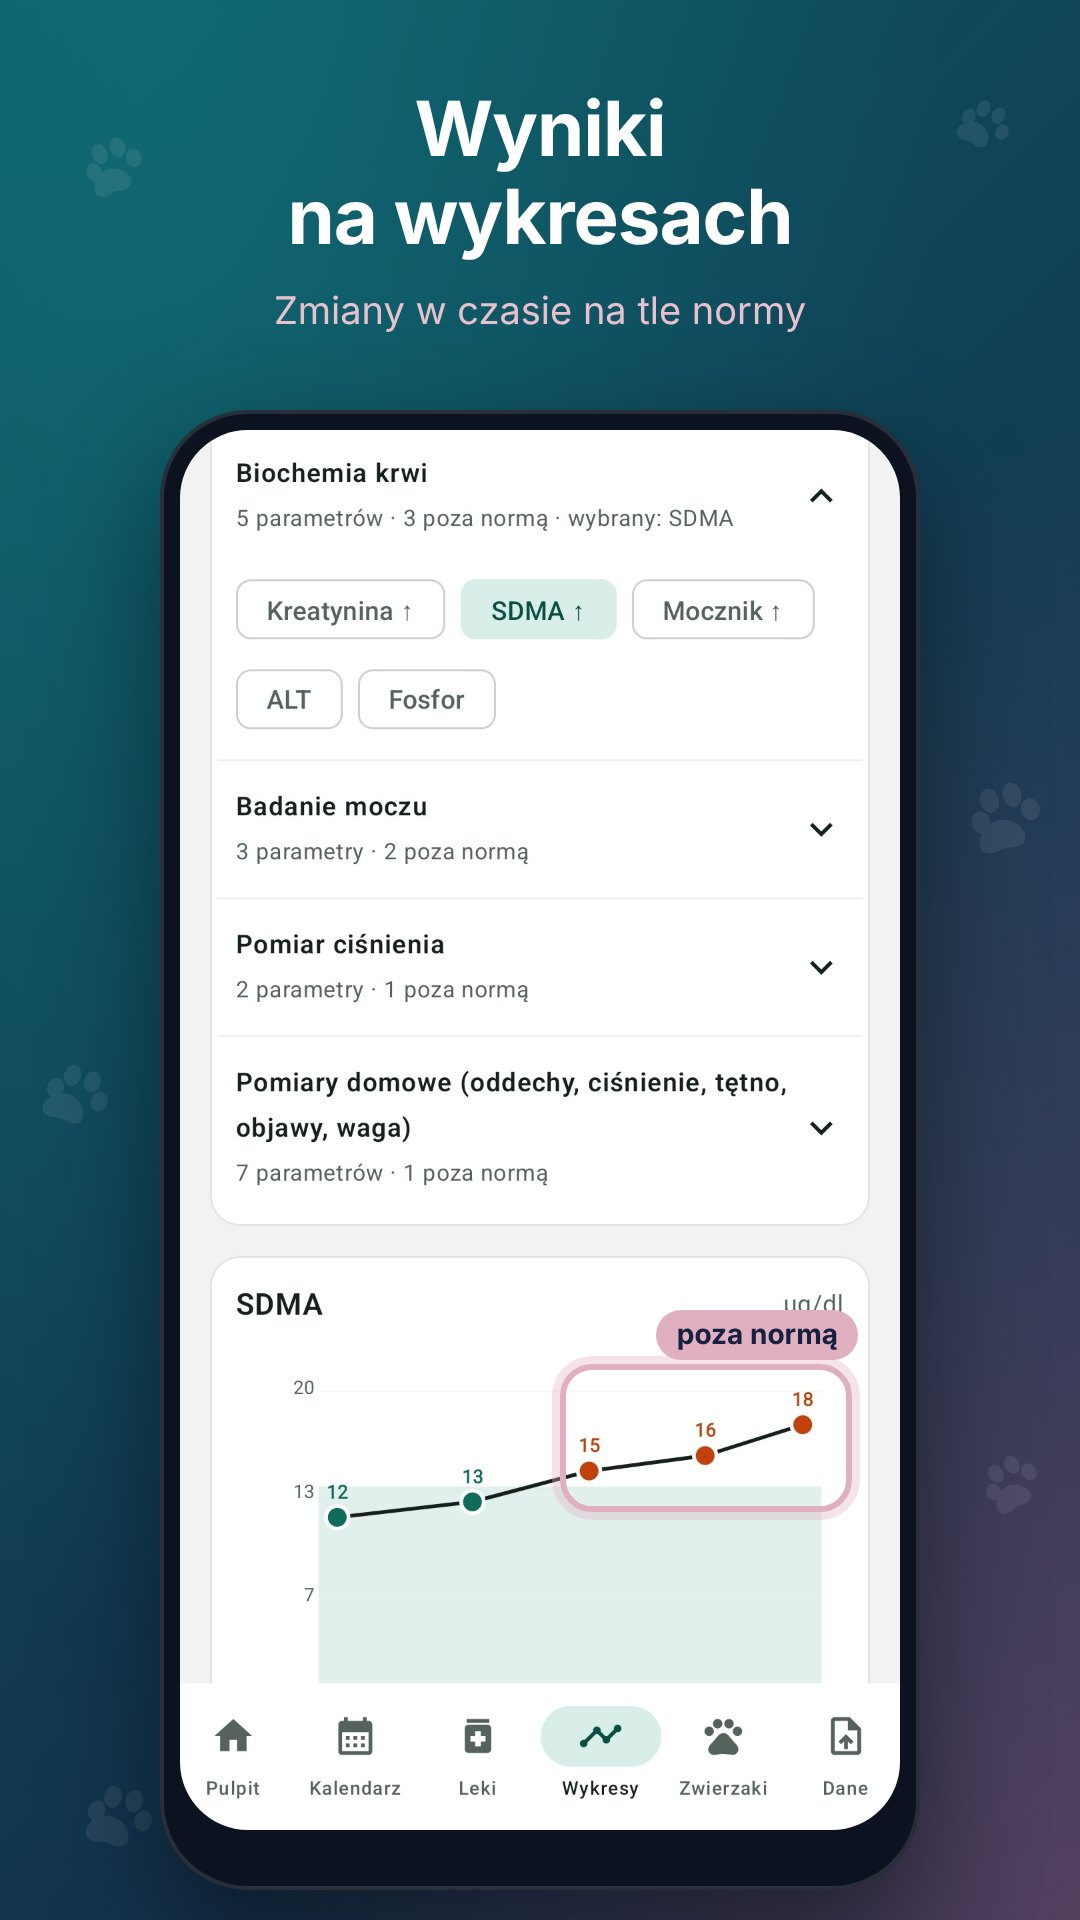
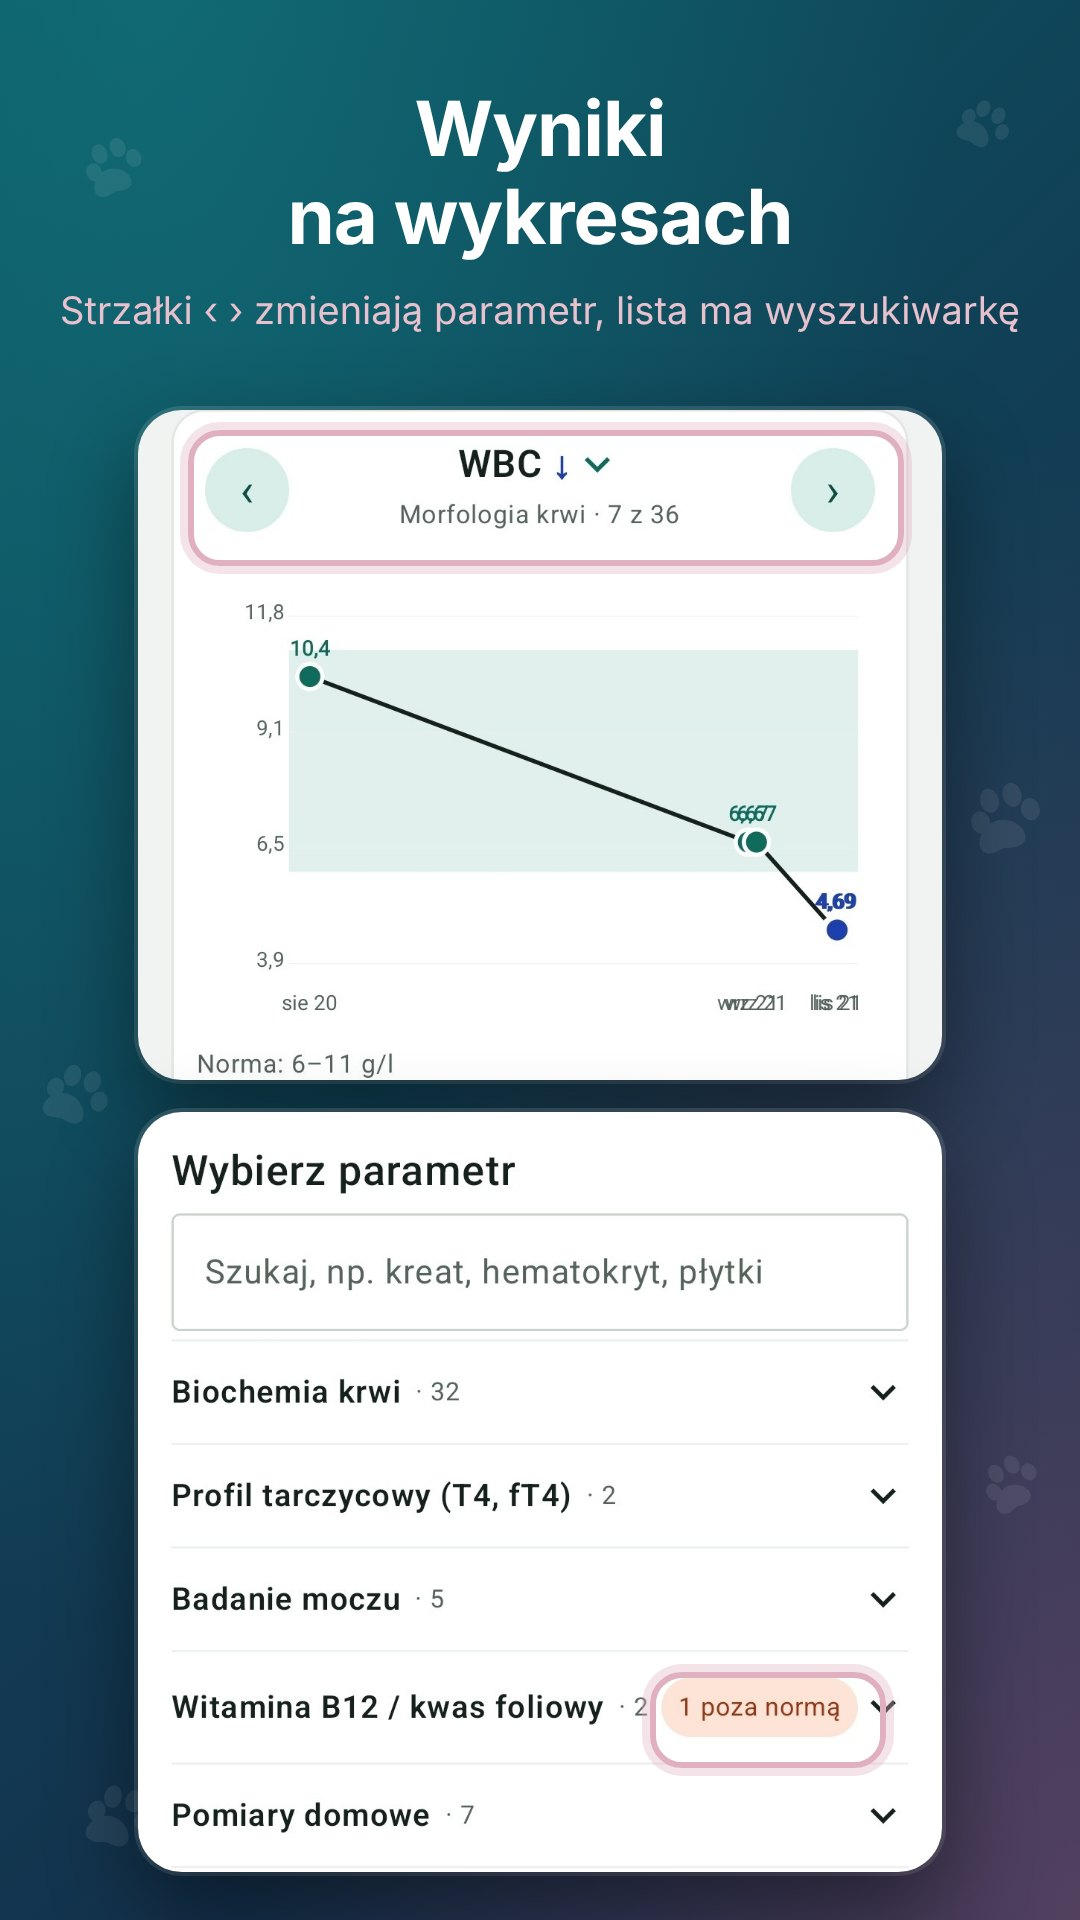
Galeria: nowy panel Wykresów (0.19)
Claude-Session: https://claude.ai/code/session_01Lz8gJxS2uki7r8oLhaRRUg

Changed region(s): [[0.0611, 0.1562, 0.9472, 1.0], [0.4278, 0.5, 0.4889, 0.5312]]

diff --git a/tools/galeria.py b/tools/galeria.py
@@ -17,8 +17,8 @@ P = [
      [('profil-stan.jpg', 860, 1665, []), ('profil-terminy.jpg', 130, 1220, [(815, 285, 1005, 380, '')])]),
     ('opieka', 'Dieta, fizjoterapia<br>i notatki', 'Cała opieka w profilu zwierzaka', 'Profil – dieta, fizjoterapia i notatki',
      [('profil-dieta.jpg', 100, 1060, []), ('profil-dieta.jpg', 1370, 1805, [])]),
-    ('wykresy', 'Wyniki<br>na wykresach', 'Zmiany w czasie na tle normy', 'Wykresy wyników',
-     [('wykresy.jpg', 100, 2200, [(585, 1515, 975, 1690, 'poza normą')])]),
+    ('wykresy', 'Wyniki<br>na wykresach', 'Strzałki ‹ › zmieniają parametr, lista ma wyszukiwarkę', 'Wykresy wyników',
+     [('wykresy.jpg', 140, 1040, [(80, 180, 1000, 320, '')]), ('wykresy-arkusz.jpg', 0, 1020, [(700, 765, 975, 850, '')])]),
     ('leki', 'Leki<br>i ich zapasy', 'Według godzin, z ostrzeżeniem o końcu zapasu', 'Leki i zapasy',
      [('leki.jpg', 580, 1460, []), ('zapasy.jpg', 130, 1050, [(870, 255, 1005, 350, '')])]),
     ('kalendarz', 'Wszystko<br>w kalendarzu', 'Wizyty, badania i terminy', 'Kalendarz',
